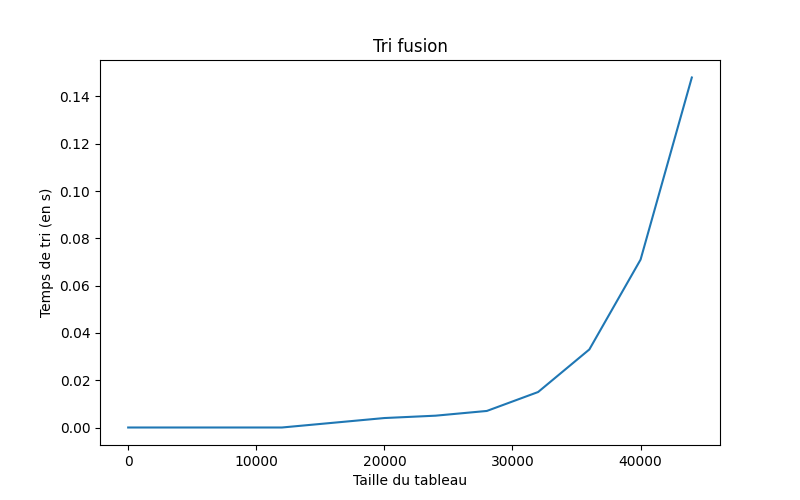
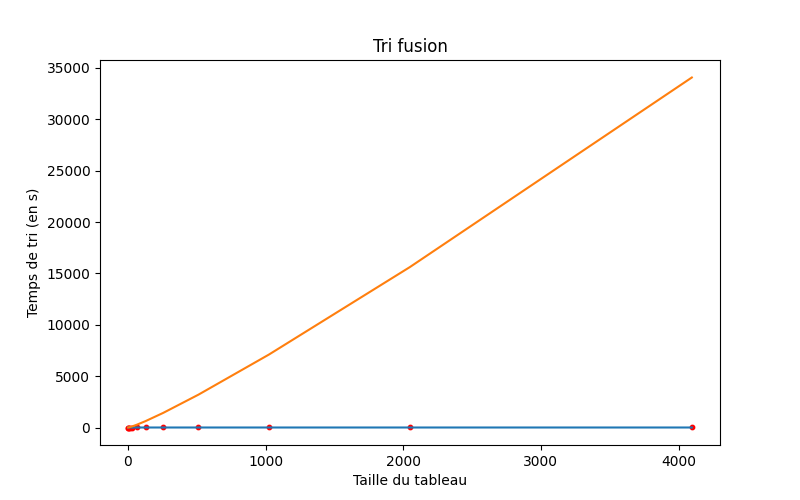
Avancement courbes

diff --git a/Courbes/Valeurs_triées/Valeurs_tirées.c b/Courbes/Valeurs_triées/Valeurs_tirées.c
@@ -10,7 +10,7 @@
 
 void printTab(unsigned long int *t, unsigned long int n)
 {
-    for (long int i = 0; i < n; i++)
+    for (int i = 0; i < n; i++)
     {
         printf("%5d | ", t[i]);
     }
@@ -19,13 +19,14 @@ void printTab(unsigned long int *t, unsigned long int n)
 
 void initTab(unsigned long int *t, unsigned long int n)
 {
-    for (long int i = 0; i <= n; i++)
+    for (long int i = 0; i < n; i++)
     {
-        t[i] = (((double)i / n) * ELT_MAX);
+        t[i] = (unsigned long int)(((double)i / n) * ELT_MAX);
+        // printf("%li\n", t[i]);
     }
 }
 
-void fusion(unsigned long int *t, unsigned long int d, unsigned long int m, unsigned long int f)
+void fusion(unsigned long int *t, unsigned int d, unsigned int m, unsigned long int f)
 {
     /* Création des tableaux auxiliaires */
     long int n1 = m - d + 1;
@@ -77,7 +78,7 @@ void fusion(unsigned long int *t, unsigned long int d, unsigned long int m, unsi
     }
 }
 
-void triFusion(unsigned long int *t, unsigned long int d, unsigned long int n)
+void triFusion(unsigned long int *t, unsigned int d, unsigned long int n)
 {
     unsigned long int q;
 
@@ -90,11 +91,11 @@ void triFusion(unsigned long int *t, unsigned long int d, unsigned long int n)
     }
 }
 
-unsigned long int partition(unsigned long int *t, unsigned long int d, unsigned long int n)
+unsigned int partition(unsigned long int *t, unsigned int d, unsigned long int n)
 {
     unsigned long int x = t[d];
     unsigned long int i = d - 1;
-    unsigned long int j = n + 1;
+    unsigned int j = n + 1;
     unsigned long int b;
 
     long int flag = 1;
@@ -123,7 +124,7 @@ unsigned long int partition(unsigned long int *t, unsigned long int d, unsigned 
     return j;
 }
 
-void triRapide(unsigned long int *t, unsigned long int d, unsigned long int n)
+void triRapide(unsigned long int *t, unsigned int d, unsigned long int n)
 {
     unsigned long int q;
     if (d < n)
@@ -134,14 +135,14 @@ void triRapide(unsigned long int *t, unsigned long int d, unsigned long int n)
     }
 }
 
-unsigned long int tasParent(unsigned long int i) { return (i - 1) / 2; }
-unsigned long int tasGauche(unsigned long int i) { return 2 * i + 1; }
-unsigned long int tasDroite(unsigned long int i) { return 2 * i + 2; }
+unsigned int tasParent(unsigned int i) { return (i - 1) / 2; }
+unsigned int tasGauche(unsigned int i) { return 2 * i + 1; }
+unsigned int tasDroite(unsigned int i) { return 2 * i + 2; }
 
 void tasSifier(unsigned long int *t, unsigned long int taille, unsigned long int i)
 {
-    unsigned long int l = tasGauche(i);
-    unsigned long int r = tasDroite(i);
+    unsigned int l = tasGauche(i);
+    unsigned int r = tasDroite(i);
     unsigned long int largest;
 
     largest = i;
@@ -170,13 +171,13 @@ void tasSifier(unsigned long int *t, unsigned long int taille, unsigned long int
 
 void tasConstruire(unsigned long int *t, unsigned long int taille)
 {
-    for (int i = taille / 2; i >= 0; i--)
+    for (long int i = taille / 2; i >= 0; i--)
     {
         tasSifier(t, taille, i);
     }
 }
 
-void triTas(unsigned long int *t, unsigned long int d, unsigned long int n)
+void triTas(unsigned long int *t, unsigned int d, unsigned long int n)
 {
     unsigned long int taille = n;
     unsigned long int b;
@@ -193,7 +194,7 @@ void triTas(unsigned long int *t, unsigned long int d, unsigned long int n)
     }
 }
 
-void triCompte(unsigned long int *t, unsigned long int d, unsigned long int n)
+void triCompte(unsigned long int *t, unsigned int d, unsigned long int n)
 {
     unsigned long int *B, *C;
     B = (unsigned long int *)malloc(sizeof(unsigned long int) * (n + 1));
@@ -211,7 +212,7 @@ void triCompte(unsigned long int *t, unsigned long int d, unsigned long int n)
     {
         C[i] = C[i] + C[i - 1];
     }
-    for (unsigned long int i = n; i >= 0; i--)
+    for (long int i = n; i >= 0; i--)
     {
         B[C[t[i]] - 1] = t[i];
         C[t[i]]--;
@@ -220,9 +221,6 @@ void triCompte(unsigned long int *t, unsigned long int d, unsigned long int n)
     {
         t[i] = B[i];
     }
-
-    free(B);
-    free(C);
 }
 
 unsigned long int *copyTab(unsigned long int *Tab, long int j)
@@ -242,11 +240,11 @@ unsigned long int *copyTab(unsigned long int *Tab, long int j)
     return tabt;
 }
 
-void affichertab2d(double **Moys, int taille)
+void affichertab2d(double **Moys, long int taille)
 {
-    for (int i = 0; i < taille; i++)
+    for (long int i = 0; i < taille; i++)
     {
-        for (int j = 0; j < NBFCT; j++)
+        for (long int j = 0; j < NBFCT; j++)
         {
             printf("| %f ", (double)Moys[j][i]);
         }
@@ -281,6 +279,15 @@ double **createTabMoy()
     return Moys;
 }
 
+unsigned long int power(unsigned long int a, int b)
+{
+    for (int i = 0; i < b; i++)
+    {
+        a *= 2;
+    }
+    return a;
+}
+
 void ecrireTxt(double **Moys)
 {
     FILE *f0 = fopen("0.txt", "w"), *f1 = fopen("1.txt", "w"), *f2 = fopen("2.txt", "w"), *f3 = fopen("3.txt", "w");
@@ -295,6 +302,7 @@ void ecrireTxt(double **Moys)
     {
         for (int j = 0; j < 12; j++)
         {
+            fprintf(files[i], "%li\n", power(20, j));
             fprintf(files[i], "%f\n", (double)Moys[i][j]);
         }
     }

diff --git a/Courbes/Valeurs_triées/courbes.py b/Courbes/Valeurs_triées/courbes.py
@@ -1,9 +1,11 @@
 import matplotlib.pyplot as plt
 import numpy as np
 import os
+from math import log
+
+from numpy.core.fromnumeric import size
 
 os. system('cls')
-chm = os.getcwd()
 
 def retirerFin(liste):
 	liste2 = []
@@ -14,21 +16,38 @@ def retirerFin(liste):
 files = []
 names = ["Tri fusion", "Tri rapide", "Tri par tas", "Tri par compte"]
 
-x = np.linspace(0, 44000, 12)
+# x = np.linspace(0, 44000, 16)
+
 
 for i in range(4):
 	f = open(""+str(i)+".txt" , 'r')
 	files.append(f) 
-	
 
-for i in range(4):
+
+
+i = 0
+j = 0
+for f in files:
+	x = []
+	y = []
+	l1 = []
+	l1 = f.readlines()
+	l1 = retirerFin(l1)
+
+	for i in range(len(l1)):
+		if i%2 == 0:
+			x.append(l1[i])
+		else:
+			y.append(l1[i])
+
 	fig = plt.figure(1, figsize=(8, 5))	
-	y = files[i].readlines()
-	y = retirerFin(y)
-	plt.title(names[i])
+	plt.title(names[j])
+	plt.scatter(x,y, marker='o', s = 10, c ="red")
 	plt.plot(x, y)
+	plt.plot(x, [x[n]*log(x[n]) for n in range(12)])
 	plt.xlabel("Taille du tableau")
 	plt.ylabel("Temps de tri (en s)")
-	plt.savefig(names[i])
+	plt.savefig(names[j])
 	plt.show()
+	j+=1
 

diff --git a/Courbes/Valeurs random/Save random val.c b/Courbes/Valeurs random/Save random val.c
@@ -168,7 +168,7 @@ void tasSifier(unsigned long int *t, unsigned long int taille, unsigned long int
     }
 }
 
-void tasConstruire(unsigned long int *t, unsigned int long taille)
+void tasConstruire(unsigned long int *t, unsigned long int taille)
 {
     for (long int i = taille / 2; i >= 0; i--)
     {
@@ -231,7 +231,7 @@ unsigned long int *copyTab(unsigned long int *Tab, long int j)
         exit(1);
     }
 
-    for (int i = 0; i < j; i++)
+    for (long int i = 0; i < j; i++)
     {
         tabt[i] = Tab[i];
     }
@@ -239,11 +239,11 @@ unsigned long int *copyTab(unsigned long int *Tab, long int j)
     return tabt;
 }
 
-void affichertab2d(double **Moys, int long taille)
+void affichertab2d(double **Moys, long int taille)
 {
-    for (int long i = 0; i < taille; i++)
+    for (long int i = 0; i < taille; i++)
     {
-        for (int long j = 0; j < NBFCT; j++)
+        for (long int j = 0; j < NBFCT; j++)
         {
             printf("| %f ", (double)Moys[j][i]);
         }

diff --git a/Rapport latex/Rapport NIDDAM_Benjamin.tex b/Rapport latex/Rapport NIDDAM_Benjamin.tex
@@ -156,7 +156,7 @@ Les méthodes présentées sont de deux types :
 \subsection{Lien avec les données}
 L’étude théorique des algorithmes n’est pas suffisante car l’efficacité de ces-derniers dépend
 aussi de l’ordre des données sur lesquelles on les utilise. Les algorithmes que nous allons considérés
-par la suite sont les tris :  \textit{tas}, \textit{compte}, \textit{fusion} et \textit{rapide}. Pour les étudier et les
+par la suite sont les tris : \textit{par tas}, \textit{compte}, \textit{fusion} et \textit{rapide}. Pour les étudier et les
 comparer, on se propose de créer plusieurs ensembles de données.
 On ordonnera les données toujours par ordre croissant. De plus, on donnera aux données un
 ordre prédéfini (avant le tri). Les jeux de données seront ordonnés : par ordre croissant de 0 à n,
